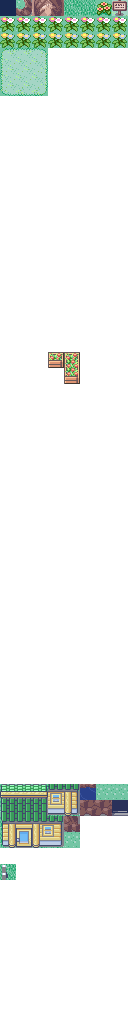
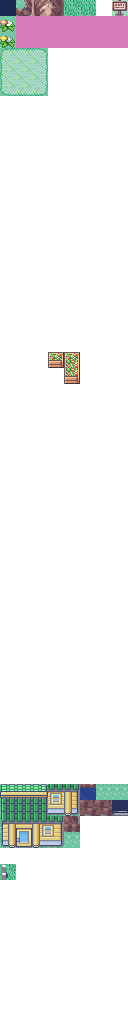
added flower animations

Changed region(s): [[0.125, 0.0, 1.0, 0.0625], [0.0, 0.0, 0.0938, 0.0625]]

diff --git a/src/tileset_anims.c b/src/tileset_anims.c
@@ -43,9 +43,11 @@ static void TilesetAnim_MauvilleGym(u16);
 static void TilesetAnim_BikeShop(u16);
 static void TilesetAnim_BattlePyramid(u16);
 static void TilesetAnim_BattleDome(u16);
-//island-start
+//island-game
 static void Island_TilesetAnim_Firered_Water(u16);
 static void Island_TilesetAnim_General(u16);
+static void Island_TilesetAnim_Forest(u16);
+static void Island_TilesetAnim_Rosevale(u16);
 
 static void QueueAnimTiles_General_Flower(u16);
 static void QueueAnimTiles_General_Water(u16);
@@ -78,13 +80,16 @@ static void QueueAnimTiles_SootopolisGym_Waterfalls(u16);
 static void QueueAnimTiles_EliteFour_GroundLights(u16);
 static void QueueAnimTiles_EliteFour_WallLights(u16);
 
-//island-start
+//island-game
 static void Island_QueueAnimTiles_Firered_Water(u16);
 static void Island_QueueAnimTiles_General_Water(u16);
 static void Island_QueueAnimTiles_General_Flower(u16);
 static void Island_QueueAnimTiles_General_Waterfall(u16);
 static void Island_QueueAnimTiles_General_SandWaterEdge(u16);
-
+static void Island_QueueAnimTiles_Forest_Flower_1(u16);
+static void Island_QueueAnimTiles_Forest_Flower_2(u16);
+static void Island_QueueAnimTiles_Rosevale_Flower_1(u16);
+static void Island_QueueAnimTiles_Rosevale_Flower_2(u16);
 
 const u16 gTilesetAnims_General_Flower_Frame1[] = INCBIN_U16("data/tilesets/primary/general/anim/flower/1.4bpp");
 const u16 gTilesetAnims_General_Flower_Frame0[] = INCBIN_U16("data/tilesets/primary/general/anim/flower/0.4bpp");
@@ -117,7 +122,7 @@ const u16 *const gTilesetAnims_General_Water[] = {
     gTilesetAnims_General_Water_Frame6,
     gTilesetAnims_General_Water_Frame7
 };
-//island-start
+//island-game
 //Note: anim with an s, not just anim compared to the other ones.
 const u16 gTilesetAnims_Island_Firered_Water_Frame0[] = INCBIN_U16("data/tilesets/primary/fire_red_general_test/anim/water/00.4bpp");
 const u16 gTilesetAnims_Island_Firered_Water_Frame1[] = INCBIN_U16("data/tilesets/primary/fire_red_general_test/anim/water/01.4bpp");
@@ -198,6 +203,63 @@ const u16 *const gTilesetAnims_Island_General_SandWaterEdge[] = {
     gTilesetAnims_Island_General_SandWaterEdge_Frame5,
     gTilesetAnims_Island_General_SandWaterEdge_Frame6,
 };
+
+const u16 gTilesetAnims_Island_Forest_Flower_1_Frame0[] = INCBIN_U16("data/tilesets/secondary/forest/anim/flower_1/00.4bpp");
+const u16 gTilesetAnims_Island_Forest_Flower_1_Frame1[] = INCBIN_U16("data/tilesets/secondary/forest/anim/flower_1/01.4bpp");
+const u16 gTilesetAnims_Island_Forest_Flower_1_Frame2[] = INCBIN_U16("data/tilesets/secondary/forest/anim/flower_1/02.4bpp");
+const u16 gTilesetAnims_Island_Forest_Flower_1_Frame3[] = INCBIN_U16("data/tilesets/secondary/forest/anim/flower_1/03.4bpp");
+const u16 gTilesetAnims_Island_Forest_Flower_1_Frame4[] = INCBIN_U16("data/tilesets/secondary/forest/anim/flower_1/04.4bpp");
+
+const u16 *const gTilesetAnims_Island_Forest_Flower_1[] = {
+    gTilesetAnims_Island_Forest_Flower_1_Frame0,
+    gTilesetAnims_Island_Forest_Flower_1_Frame1,
+    gTilesetAnims_Island_Forest_Flower_1_Frame2,
+    gTilesetAnims_Island_Forest_Flower_1_Frame3,
+    gTilesetAnims_Island_Forest_Flower_1_Frame4,
+};
+
+const u16 gTilesetAnims_Island_Forest_Flower_2_Frame0[] = INCBIN_U16("data/tilesets/secondary/forest/anim/flower_2/00.4bpp");
+const u16 gTilesetAnims_Island_Forest_Flower_2_Frame1[] = INCBIN_U16("data/tilesets/secondary/forest/anim/flower_2/01.4bpp");
+const u16 gTilesetAnims_Island_Forest_Flower_2_Frame2[] = INCBIN_U16("data/tilesets/secondary/forest/anim/flower_2/02.4bpp");
+const u16 gTilesetAnims_Island_Forest_Flower_2_Frame3[] = INCBIN_U16("data/tilesets/secondary/forest/anim/flower_2/03.4bpp");
+const u16 gTilesetAnims_Island_Forest_Flower_2_Frame4[] = INCBIN_U16("data/tilesets/secondary/forest/anim/flower_2/04.4bpp");
+
+const u16 *const gTilesetAnims_Island_Forest_Flower_2[] = {
+    gTilesetAnims_Island_Forest_Flower_2_Frame0,
+    gTilesetAnims_Island_Forest_Flower_2_Frame1,
+    gTilesetAnims_Island_Forest_Flower_2_Frame2,
+    gTilesetAnims_Island_Forest_Flower_2_Frame3,
+    gTilesetAnims_Island_Forest_Flower_2_Frame4,
+};
+
+const u16 gTilesetAnims_Island_Rosevale_Flower_1_Frame0[] = INCBIN_U16("data/tilesets/secondary/islandgame_rosevale/anim/flower_1/00.4bpp");
+const u16 gTilesetAnims_Island_Rosevale_Flower_1_Frame1[] = INCBIN_U16("data/tilesets/secondary/islandgame_rosevale/anim/flower_1/01.4bpp");
+const u16 gTilesetAnims_Island_Rosevale_Flower_1_Frame2[] = INCBIN_U16("data/tilesets/secondary/islandgame_rosevale/anim/flower_1/02.4bpp");
+const u16 gTilesetAnims_Island_Rosevale_Flower_1_Frame3[] = INCBIN_U16("data/tilesets/secondary/islandgame_rosevale/anim/flower_1/03.4bpp");
+const u16 gTilesetAnims_Island_Rosevale_Flower_1_Frame4[] = INCBIN_U16("data/tilesets/secondary/islandgame_rosevale/anim/flower_1/04.4bpp");
+
+const u16 *const gTilesetAnims_Island_Rosevale_Flower_1[] = {
+    gTilesetAnims_Island_Rosevale_Flower_1_Frame0,
+    gTilesetAnims_Island_Rosevale_Flower_1_Frame1,
+    gTilesetAnims_Island_Rosevale_Flower_1_Frame2,
+    gTilesetAnims_Island_Rosevale_Flower_1_Frame3,
+    gTilesetAnims_Island_Rosevale_Flower_1_Frame4,
+};
+
+const u16 gTilesetAnims_Island_Rosevale_Flower_2_Frame0[] = INCBIN_U16("data/tilesets/secondary/islandgame_rosevale/anim/flower_2/00.4bpp");
+const u16 gTilesetAnims_Island_Rosevale_Flower_2_Frame1[] = INCBIN_U16("data/tilesets/secondary/islandgame_rosevale/anim/flower_2/01.4bpp");
+const u16 gTilesetAnims_Island_Rosevale_Flower_2_Frame2[] = INCBIN_U16("data/tilesets/secondary/islandgame_rosevale/anim/flower_2/02.4bpp");
+const u16 gTilesetAnims_Island_Rosevale_Flower_2_Frame3[] = INCBIN_U16("data/tilesets/secondary/islandgame_rosevale/anim/flower_2/03.4bpp");
+const u16 gTilesetAnims_Island_Rosevale_Flower_2_Frame4[] = INCBIN_U16("data/tilesets/secondary/islandgame_rosevale/anim/flower_2/04.4bpp");
+
+const u16 *const gTilesetAnims_Island_Rosevale_Flower_2[] = {
+    gTilesetAnims_Island_Rosevale_Flower_2_Frame0,
+    gTilesetAnims_Island_Rosevale_Flower_2_Frame1,
+    gTilesetAnims_Island_Rosevale_Flower_2_Frame2,
+    gTilesetAnims_Island_Rosevale_Flower_2_Frame3,
+    gTilesetAnims_Island_Rosevale_Flower_2_Frame4,
+};
+
 //end
 
 const u16 gTilesetAnims_General_SandWaterEdge_Frame0[] = INCBIN_U16("data/tilesets/primary/general/anim/sand_water_edge/0.4bpp");
@@ -723,7 +785,7 @@ void InitTilesetAnim_Building(void)
     sPrimaryTilesetAnimCallback = TilesetAnim_Building;
 }
 
-//island-start
+//island-game
 void InitTilesetIsland_Anim_Firered_Water(void)
 {
     sPrimaryTilesetAnimCounter = 0;
@@ -736,6 +798,20 @@ void InitTilesetIsland_Anim_General(void)
     sPrimaryTilesetAnimCounter = 0;
     sPrimaryTilesetAnimCounterMax = 256;
     sPrimaryTilesetAnimCallback = Island_TilesetAnim_General;
+}
+
+void InitTilesetIsland_Anim_Forest(void)
+{
+    sSecondaryTilesetAnimCounter = 0;
+    sSecondaryTilesetAnimCounterMax = sPrimaryTilesetAnimCounterMax;
+    sSecondaryTilesetAnimCallback = Island_TilesetAnim_Forest;
+}
+
+void InitTilesetIsland_Anim_Rosevale(void)
+{
+    sSecondaryTilesetAnimCounter = 0;
+    sSecondaryTilesetAnimCounterMax = sPrimaryTilesetAnimCounterMax;
+    sSecondaryTilesetAnimCallback = Island_TilesetAnim_Rosevale;
 }
 
 
@@ -758,33 +834,39 @@ static void TilesetAnim_Building(u16 timer)
     if (timer % 8 == 0)
         QueueAnimTiles_Building_TVTurnedOn(timer / 8);
 }
-//island-start
+//island-game
 static void Island_TilesetAnim_Firered_Water(u16 timer)
 {
     if (timer % 16 == 1)
-    {
         Island_QueueAnimTiles_Firered_Water(timer / 16);
-    }
 }
 
 static void Island_TilesetAnim_General(u16 timer)
 {
     if (timer % 16 == 0)
-    {
         Island_QueueAnimTiles_General_Flower(timer / 16);
-    }
-    if (timer % 16 == 1)
-    {
+    if (timer % 16 == 4)
         Island_QueueAnimTiles_General_Water(timer / 16);
-    }
-    if (timer % 16 == 2)
-    {
+    if (timer % 16 == 8)
         Island_QueueAnimTiles_General_Waterfall(timer / 16);
-    }
-    if (timer % 16 == 3)
-    {
+    if (timer % 16 == 12)
         Island_QueueAnimTiles_General_SandWaterEdge(timer / 16);
-    }
+}
+
+static void Island_TilesetAnim_Forest(u16 timer)
+{
+    if (timer % 16 == 0)
+        Island_QueueAnimTiles_Forest_Flower_1(timer / 16);
+    if (timer % 16 == 1)
+        Island_QueueAnimTiles_Forest_Flower_2(timer / 16);
+}
+
+static void Island_TilesetAnim_Rosevale(u16 timer)
+{
+    if (timer % 16 == 0)
+        Island_QueueAnimTiles_Rosevale_Flower_1(timer / 16);
+    if (timer % 16 == 1)
+        Island_QueueAnimTiles_Rosevale_Flower_2(timer / 16);
 }
 
 static void QueueAnimTiles_General_Flower(u16 timer)
@@ -793,7 +875,7 @@ static void QueueAnimTiles_General_Flower(u16 timer)
     AppendTilesetAnimToBuffer(gTilesetAnims_General_Flower[i], (u16 *)(BG_VRAM + TILE_OFFSET_4BPP(508)), 4 * TILE_SIZE_4BPP);
 }
 
-//island-start
+//island-game
 static void Island_QueueAnimTiles_Firered_Water(u16 timer)
 {
     u16 i = timer % ARRAY_COUNT(gTilesetAnims_Island_Firered_Water);
@@ -825,6 +907,31 @@ static void Island_QueueAnimTiles_General_Waterfall(u16 timer)
     u16 i = timer % ARRAY_COUNT(gTilesetAnims_Island_General_Waterfall);
     AppendTilesetAnimToBuffer(gTilesetAnims_Island_General_Waterfall[i], (u16 *)(BG_VRAM + TILE_OFFSET_4BPP(45)), 6 * TILE_SIZE_4BPP);
 }
+
+static void Island_QueueAnimTiles_Forest_Flower_1(u16 timer)
+{
+    u16 i = timer % ARRAY_COUNT(gTilesetAnims_Island_Forest_Flower_1);
+    AppendTilesetAnimToBuffer(gTilesetAnims_Island_Forest_Flower_1[i], (u16 *)(BG_VRAM + TILE_OFFSET_4BPP(NUM_TILES_IN_PRIMARY + 0)), 4 * TILE_SIZE_4BPP);
+}
+
+static void Island_QueueAnimTiles_Forest_Flower_2(u16 timer)
+{
+    u16 i = timer % ARRAY_COUNT(gTilesetAnims_Island_Forest_Flower_2);
+    AppendTilesetAnimToBuffer(gTilesetAnims_Island_Forest_Flower_2[i], (u16 *)(BG_VRAM + TILE_OFFSET_4BPP(NUM_TILES_IN_PRIMARY + 4)), 4 * TILE_SIZE_4BPP);
+}
+
+static void Island_QueueAnimTiles_Rosevale_Flower_1(u16 timer)
+{
+    u16 i = timer % ARRAY_COUNT(gTilesetAnims_Island_Rosevale_Flower_1);
+    AppendTilesetAnimToBuffer(gTilesetAnims_Island_Rosevale_Flower_1[i], (u16 *)(BG_VRAM + TILE_OFFSET_4BPP(NUM_TILES_IN_PRIMARY + 0)), 4 * TILE_SIZE_4BPP);
+}
+
+static void Island_QueueAnimTiles_Rosevale_Flower_2(u16 timer)
+{
+    u16 i = timer % ARRAY_COUNT(gTilesetAnims_Island_Rosevale_Flower_2);
+    AppendTilesetAnimToBuffer(gTilesetAnims_Island_Rosevale_Flower_2[i], (u16 *)(BG_VRAM + TILE_OFFSET_4BPP(NUM_TILES_IN_PRIMARY + 4)), 4 * TILE_SIZE_4BPP);
+}
+
 //end
 
 

diff --git a/src/data/tilesets/headers.h b/src/data/tilesets/headers.h
@@ -914,7 +914,7 @@ const struct Tileset gTileset_Forest =
     .palettes = gTilesetPalettes_Forest,
     .metatiles = gMetatiles_Forest,
     .metatileAttributes = gMetatileAttributes_Forest,
-    .callback = NULL,
+    .callback = InitTilesetIsland_Anim_Forest,
 };
 
 const struct Tileset gTileset_islandgame_cheriport =
@@ -991,7 +991,7 @@ const struct Tileset gTileset_islandgame_rosevale =
     .palettes = gTilesetPalettes_islandgame_rosevale,
     .metatiles = gMetatiles_islandgame_rosevale,
     .metatileAttributes = gMetatileAttributes_islandgame_rosevale,
-    .callback = NULL,
+    .callback = InitTilesetIsland_Anim_Rosevale,
 };
 
 const struct Tileset gTileset_IslandgameTidalcove =

diff --git a/include/tileset_anims.h b/include/tileset_anims.h
@@ -35,6 +35,8 @@ void InitTilesetAnim_BattlePyramid(void);
 //island-game-start
 void InitTilesetIsland_Anim_Firered_Water(void);
 void InitTilesetIsland_Anim_General(void);
+void InitTilesetIsland_Anim_Forest(void);
+void InitTilesetIsland_Anim_Rosevale(void);
 
 
 #endif // GUARD_TILESET_ANIMS_H
